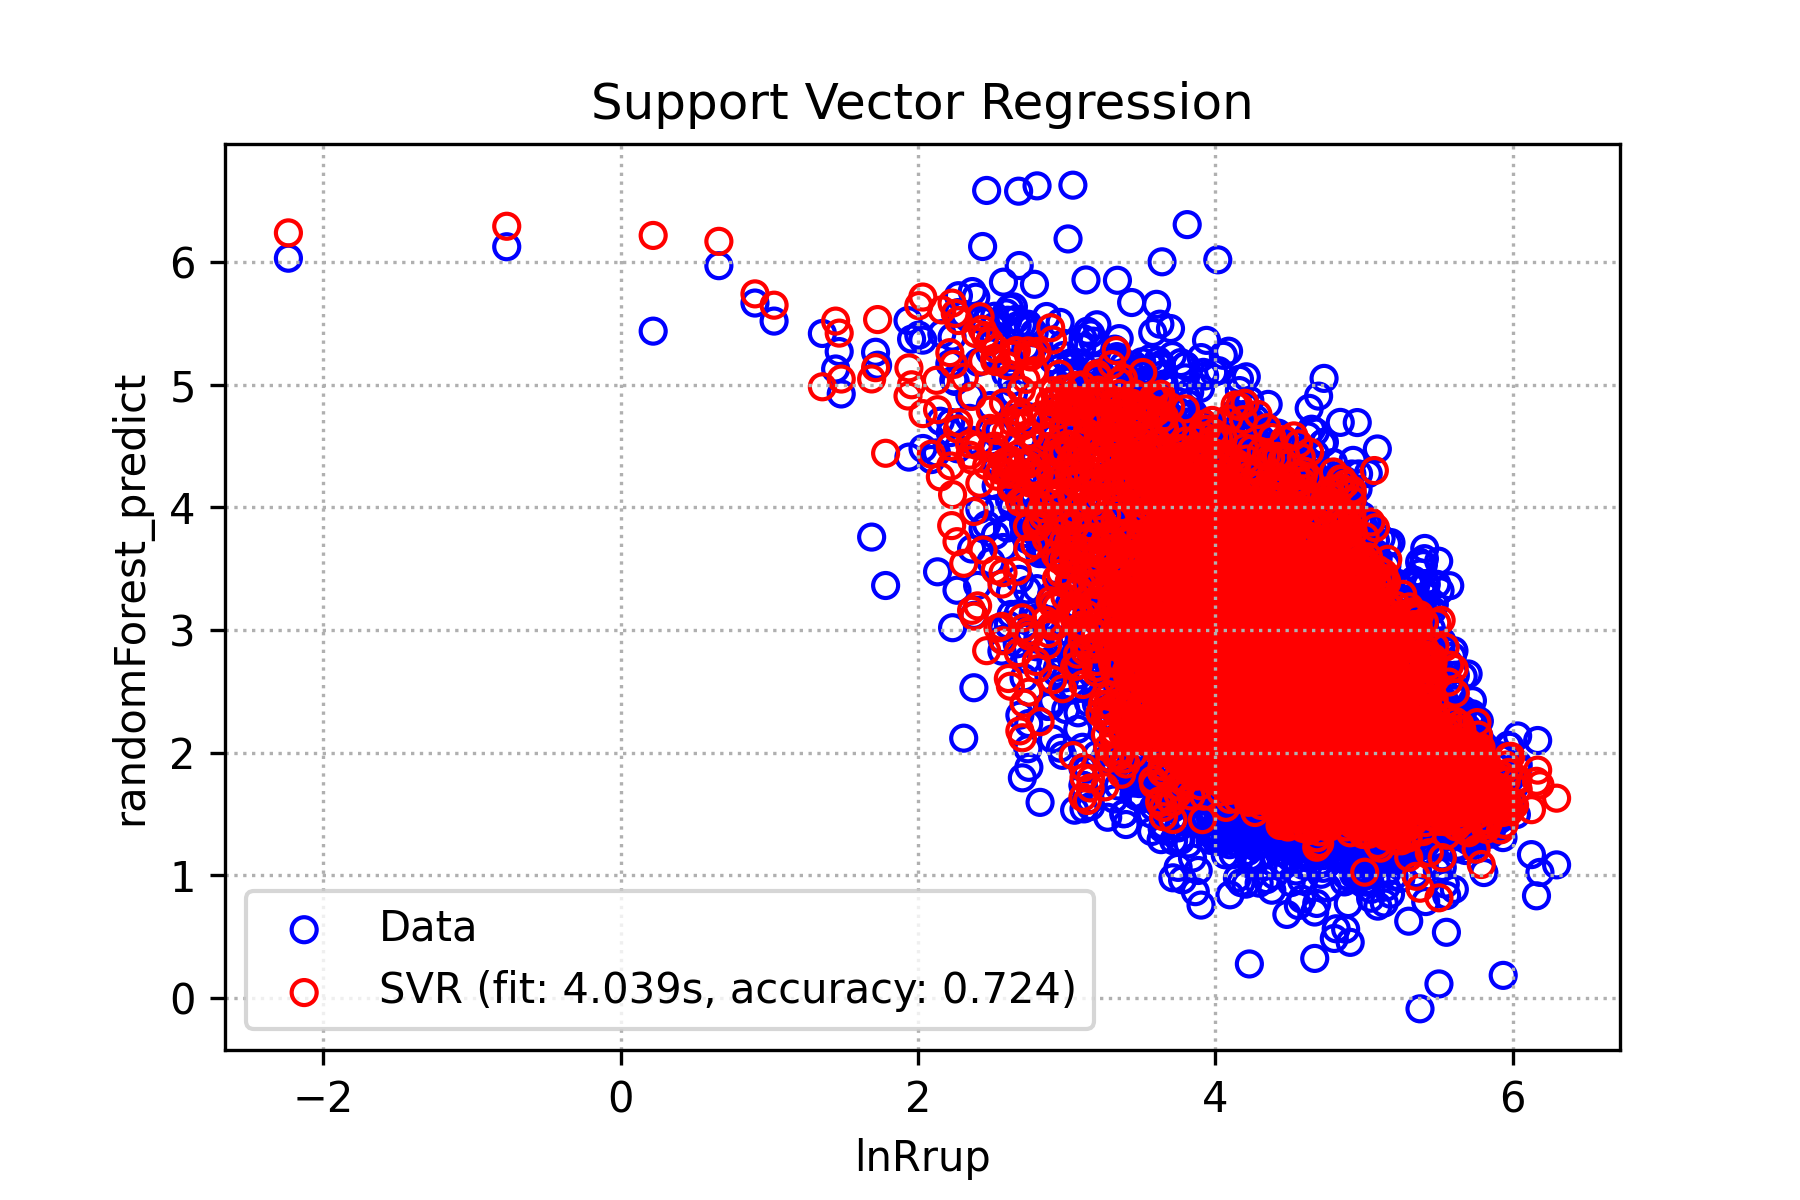
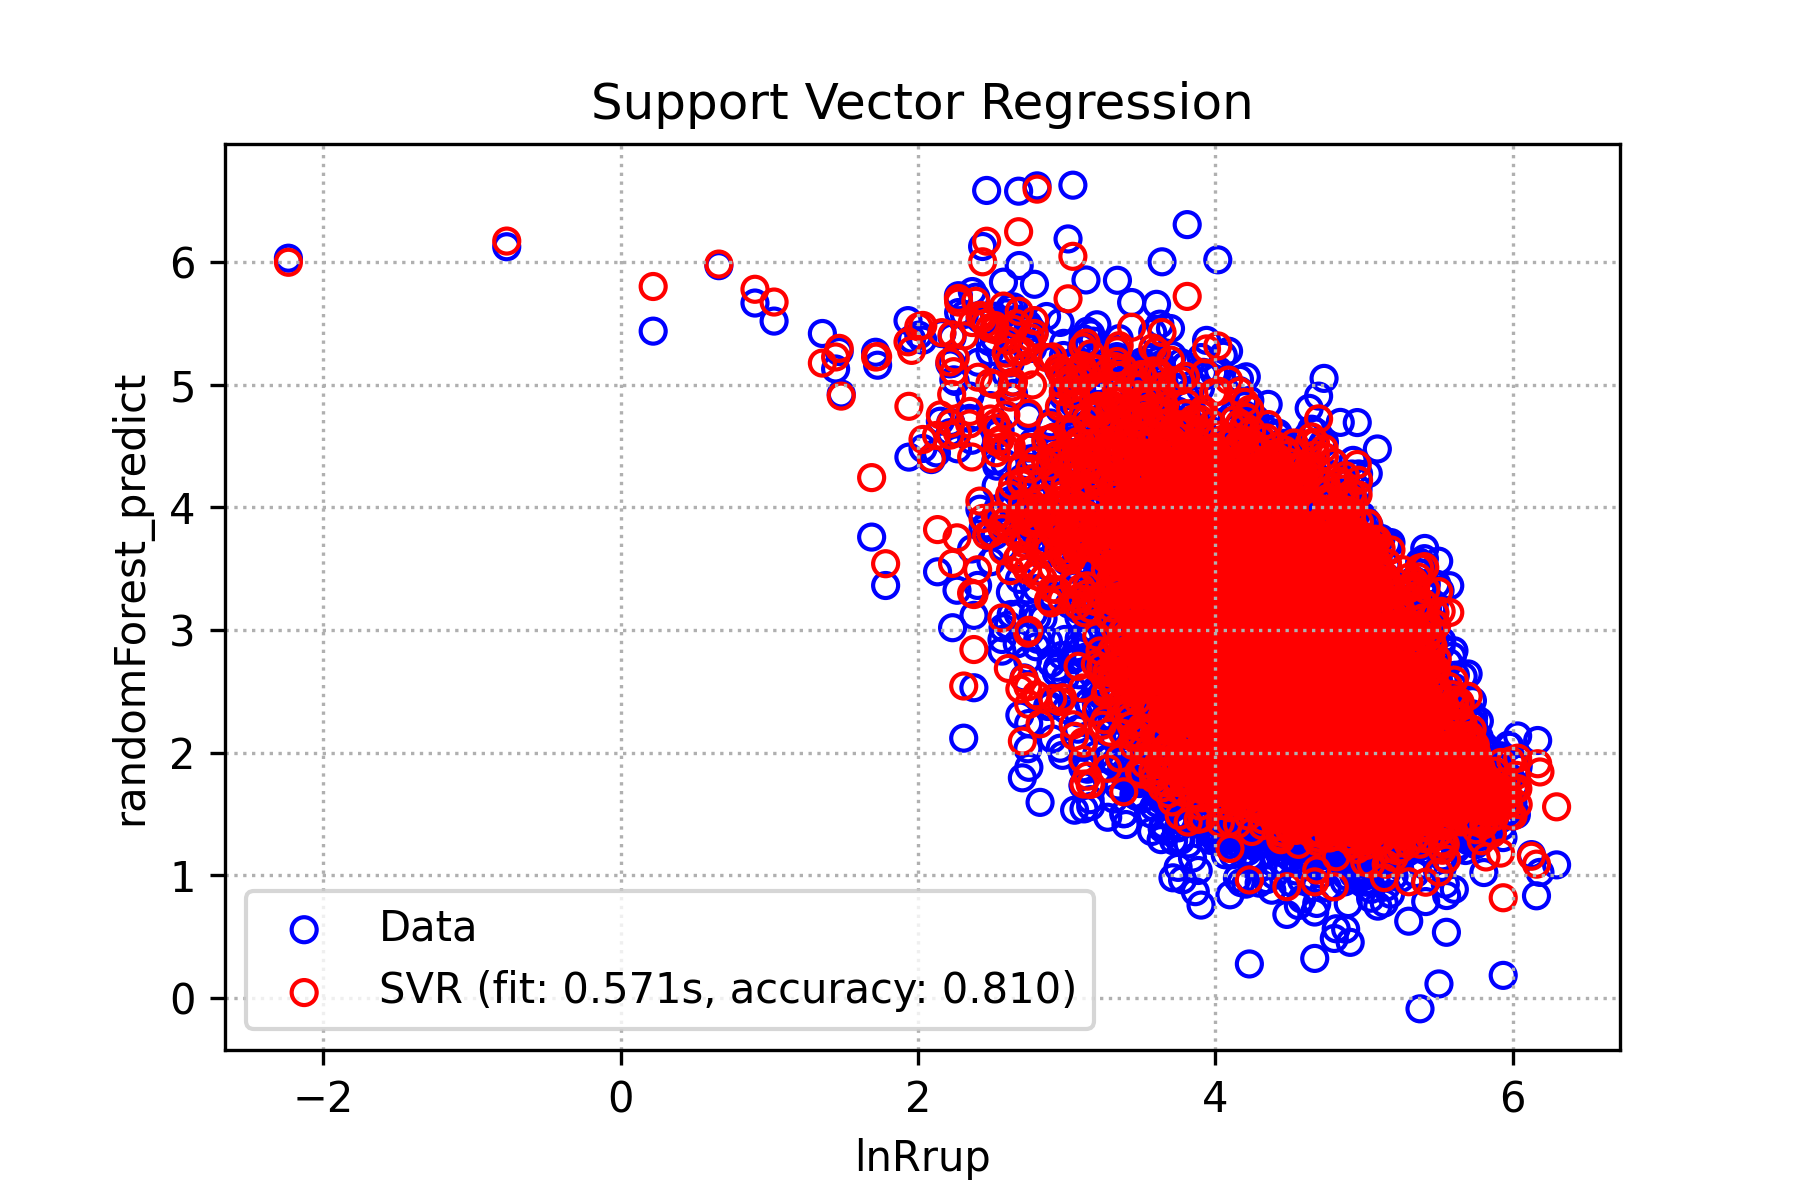
add some rf results figure

diff --git a/machine_learning/SVR/RFR_TSMIP.py b/machine_learning/SVR/RFR_TSMIP.py
@@ -67,9 +67,9 @@ y = TSMIP_df['lnPGA(gal)']
 
 x_train, x_test, y_train, y_test = train_test_split(x.values, y.values, random_state=50, train_size=0.8, shuffle=True)
 
-randomForestModel = RandomForestRegressor(n_estimators=1000, criterion = 'squared_error',max_depth=20, n_jobs=-1)
+randomForestModel = RandomForestRegressor(n_estimators=100, criterion = 'squared_error', n_jobs=-1)
 t0 = time.time()
-grid_result = randomForestModel.fit(x_train,y_train)
+grid_result = randomForestModel.fit(x_SMOGN,y_SMOGN)
 fit_time = time.time() - t0
 randomForest_predict = randomForestModel.predict(x_test)
 # 評估，打分數
@@ -81,9 +81,47 @@ scores = cross_val_score(randomForestModel,x_test,y_test,cv=3,n_jobs=-1)
 print("R2 scores:",scores)
 
 
+
+# 畫 Vs30 and randomForest_predict 關係圖
+plt.grid(linestyle=':')
+plt.scatter(x_test[:,2], y_test, marker='o',facecolors='none',edgecolors='b', label= 'Data') #數據點
+plt.scatter(x_test[:,2], randomForest_predict,marker='o',facecolors='none',edgecolors='r', \
+    label='randomForest (fit: %.3fs, accuracy: %.3f)' % (fit_time, score)) #迴歸線
+plt.xlabel('lnRrup')
+plt.ylabel('randomForest_predict')
+plt.title('Random Forest Regressor')
+plt.legend()
+plt.savefig(f'Rrup-RF_SMOGN_predict.png',dpi=300)
+plt.show()
+
+# plt Mw and randomForest_predict relationship
+plt.grid(linestyle=':')
+plt.scatter(x_test[:,1], y_test, marker='o',facecolors='none',edgecolors='b', label= 'Data') #數據點
+plt.scatter(x_test[:,1], randomForest_predict,marker='o',facecolors='none',edgecolors='r', \
+    label='randomForest (fit: %.3fs, accuracy: %.3f)' % (fit_time, score)) #迴歸線
+plt.xlabel('Mw')
+plt.ylabel('randomForest_predict')
+plt.title('Random Forest Regressor')
+plt.legend()
+plt.savefig(f'Mw-RF_SMOGN_predict.png',dpi=300)
+plt.show()
+
+# # 計算Mw_residual
+plt.grid(linestyle=':')
+residual = randomForest_predict - y_test
+plt.scatter(x_test[:,1], residual ,marker='o',facecolors='none',edgecolors='r', \
+    label='randomForest (fit: %.3fs, accuracy: %.3f)' % (fit_time, score)) #迴歸線
+plt.xlabel('Mw')
+plt.ylabel('Predict_PGA(g)')
+plt.title('Random Forest Regressor')
+plt.legend()
+plt.savefig(f'Mw-RF_SMOGN_predict_residual.png',dpi=300)
+plt.show()
+
+###################### 預測PGA和實際PGA #####################
 plt.grid(linestyle=':')
 plt.scatter(y_test, randomForest_predict,marker='o',facecolors='none',edgecolors='r', \
-    label='SVR (fit: %.3fs, accuracy: %.3f)' % (fit_time, score)) #迴歸線.
+    label='randomForest (fit: %.3fs, accuracy: %.3f)' % (fit_time, score)) #迴歸線.
 x_line=[0,2,4,6,8,10]
 y_line=[0,2,4,6,8,10]
 plt.plot(x_line, y_line, color='blue')
@@ -94,15 +132,4 @@ plt.xlim(0,10)
 plt.title('Random Forest Regressor')
 plt.legend()
 plt.savefig(f'PGA_comparison_SMOGN_predict.png',dpi=300)
-plt.show()
-
-plt.grid(linestyle=':')
-plt.scatter(x_test[:,2], y_test, marker='o',facecolors='none',edgecolors='b', label= 'Data') #數據點
-plt.scatter(x_test[:,2], randomForest_predict,marker='o',facecolors='none',edgecolors='r', \
-    label='SVR (fit: %.3fs, accuracy: %.3f)' % (fit_time, score)) #迴歸線
-plt.xlabel('lnRrup')
-plt.ylabel('randomForest_predict')
-plt.title('Support Vector Regression')
-plt.legend()
-plt.savefig(f'Rrup-SVR_SMOGN_predict.png',dpi=300)
 plt.show()
